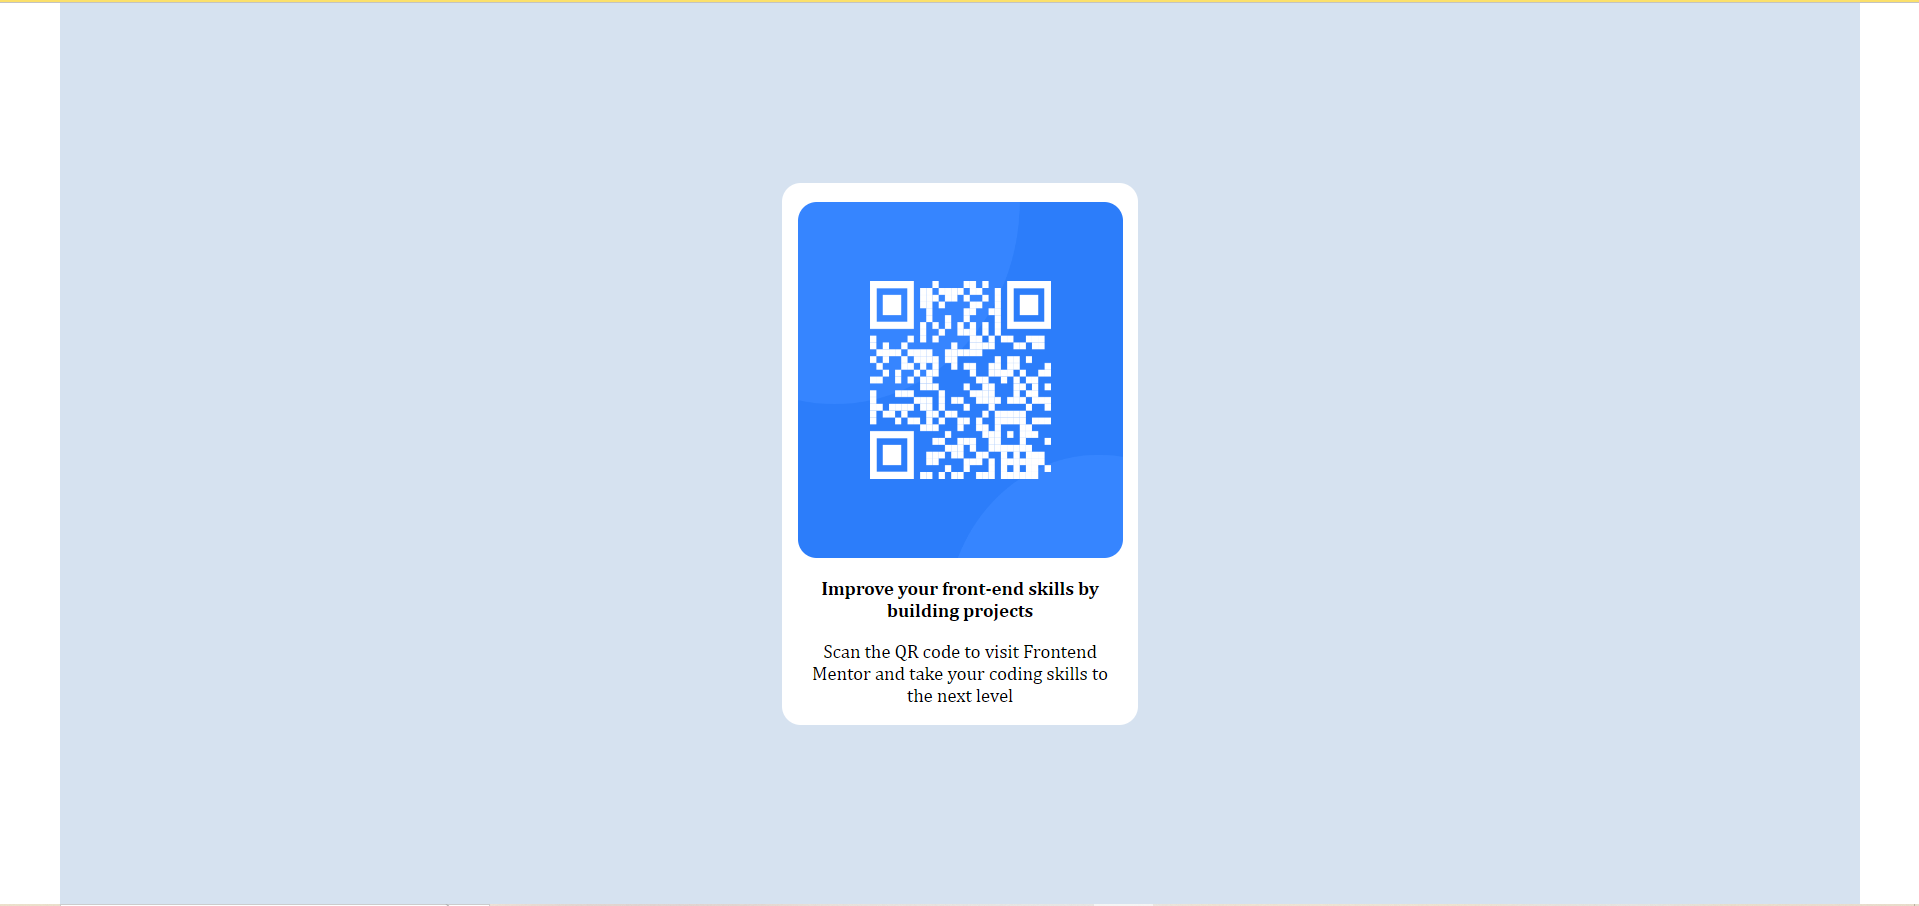
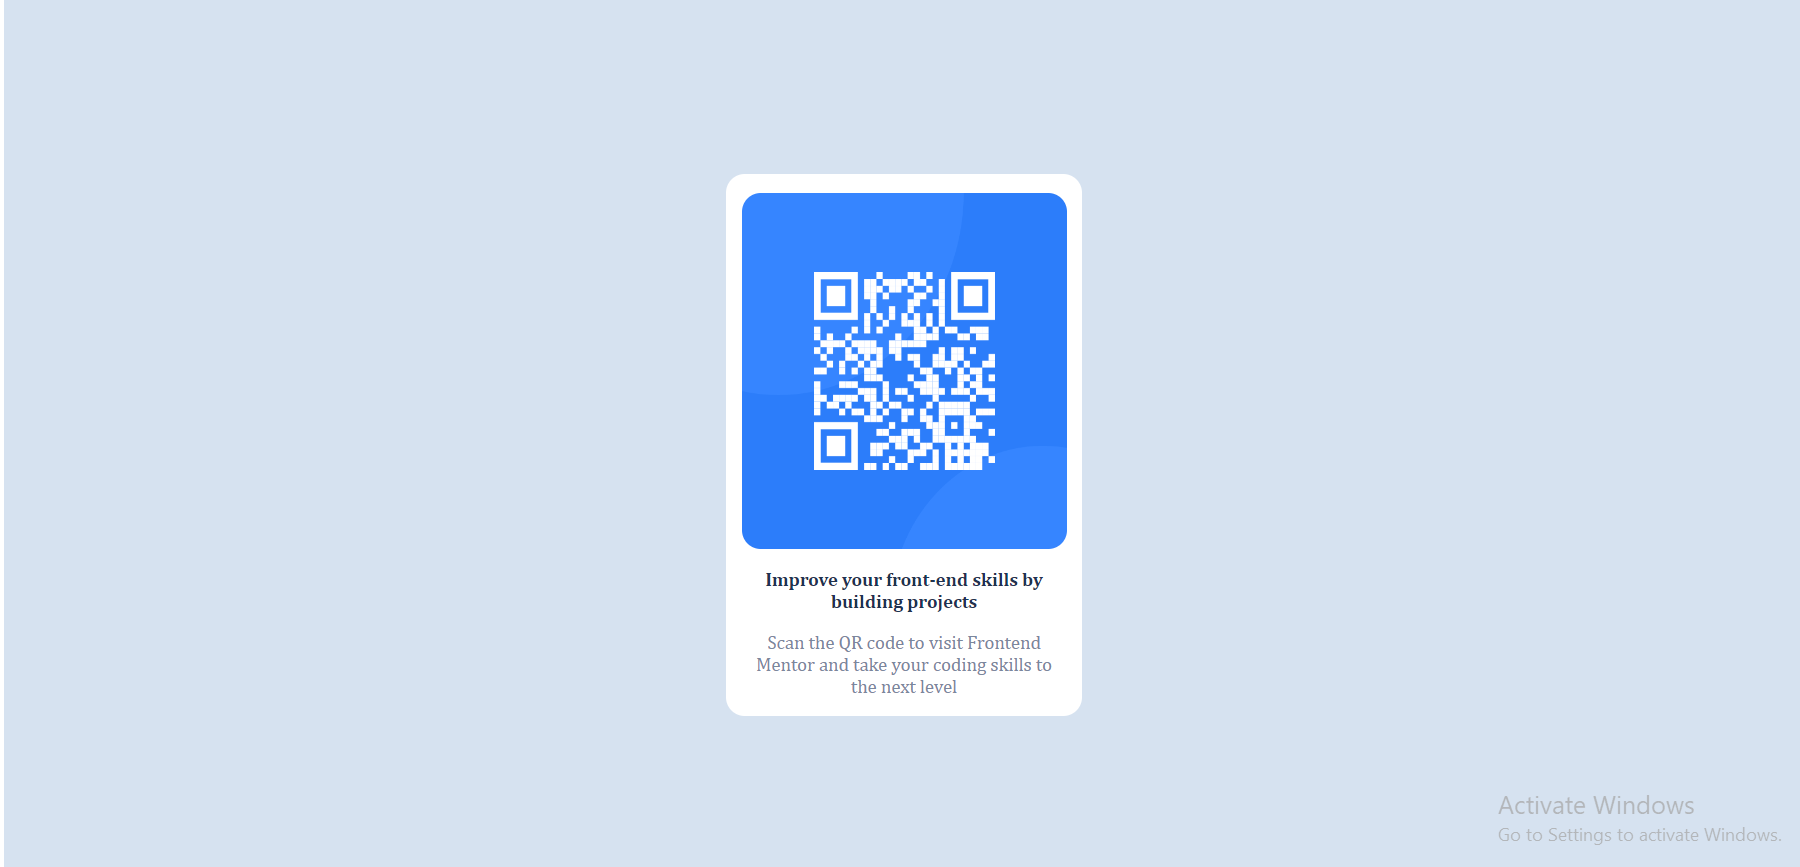
2nd changes

diff --git a/assets/css.css b/assets/css.css
@@ -1,8 +1,9 @@
-@import url("https://fonts.google.com/specimen/Outfit");
+@import url("https://fonts.google.com/specimen/Outfit#standard-styles");
 *{
     padding: 0;
     margin: 0;
     box-sizing: border-box;
+    font-family: outfit;
 }
 body {
     display: flex;
@@ -38,15 +39,18 @@ body {
     border-radius: 15px;
 }
 .f-p{
-    font-family: "Outfit";
+    font-family: outfit ;
     font-size: 15px;
     font-weight: 700;
     padding: 15px;
+    color: hsl(218, 44%, 22%);
+
 }
 .s-p{
-    font-family: 'Outfit';
+    font-family: outfit;
     font-size: 15px;
     font-weight: 400;
+    color: hsl(220, 15%, 55%);
 }
 @media screen and (min-width:375px) {
     .container{

diff --git a/index.html b/index.html
@@ -5,6 +5,7 @@
     <meta http-equiv="X-UA-Compatible" content="IE=edge">
     <meta name="viewport" content="width=device-width, initial-scale=1.0">
     <title>QR Code</title>
+    <link rel="shortcut icon" href="/assets/image/favicon-32x32.png" type="image/x-icon">
     <link rel="stylesheet" href="/assets/css.css">
 </head>
 <body>
